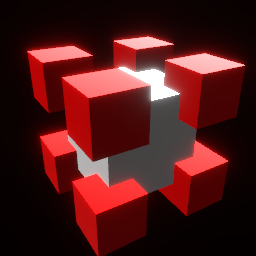
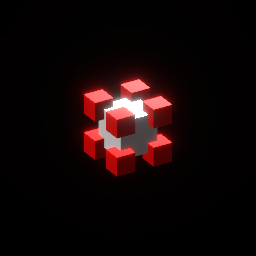
Fix orthographic projection rendering blank due to reversed depth ordering
When near > far was passed to Mat4::orthographic_rh, the positive z
coefficient caused back faces to win depth testing, producing zero
lighting output. Fix the original call site, add a runtime warning
for reversed depth, document the near < far convention, and add a
dedicated test for orthographic lit rendering.

diff --git a/crates/renderling/src/bvol.rs b/crates/renderling/src/bvol.rs
@@ -490,8 +490,8 @@ impl BoundingSphere {
         }
     }
 
-    /// Returns an [`Aabb`] with x and y coordinates in viewport pixels and z coordinate
-    /// in NDC depth.
+    /// Returns an [`Aabb`] with x and y coordinates in viewport pixels and z
+    /// coordinate in NDC depth.
     pub fn project_onto_viewport(&self, camera: &CameraDescriptor, viewport: Vec2) -> Aabb {
         fn ndc_to_pixel(viewport: Vec2, ndc: Vec3) -> Vec2 {
             let screen = Vec3::new((ndc.x + 1.0) * 0.5, 1.0 - (ndc.y + 1.0) * 0.5, ndc.z);
@@ -658,10 +658,10 @@ mod test {
             .with_msaa_sample_count(4)
             .with_lighting(true);
         let _camera = stage.new_camera().with_projection_and_view(
-            // TODO: BUG - using orthographic here renderes nothing
-            // Mat4::orthographic_rh(-10.0, 10.0, -10.0, 10.0, 10.0, -10.0),
-            crate::camera::perspective(256.0, 256.0),
-            Mat4::look_at_rh(Vec3::new(-3.0, 3.0, 5.0) * 0.5, Vec3::ZERO, Vec3::Y),
+            // Fixed: was `near=10, far=-10` which reversed depth ordering.
+            // Using `near=0.1, far=20` ensures correct depth testing.
+            Mat4::orthographic_rh(-3.0, 3.0, -3.0, 3.0, 0.1, 20.0),
+            Mat4::look_at_rh(Vec3::new(-3.0, 3.0, 5.0), Vec3::ZERO, Vec3::Y),
         );
         let _lights = crate::test::make_two_directional_light_setup(&stage);
 
@@ -711,6 +711,71 @@ mod test {
         stage.render(&frame.view());
         let img = frame.read_image().block().unwrap();
         img_diff::assert_img_eq("bvol/bounding_box/get_mesh.png", img);
+    }
+
+    /// Verifies that an orthographic projection with correct `near < far`
+    /// produces visible lit output.
+    ///
+    /// The original bug was that `orthographic_rh(-10, 10, -10, 10, 10, -10)`
+    /// (note: `near=10 > far=-10`) reversed the depth mapping, causing back
+    /// faces to win the depth test and produce zero lighting output.
+    ///
+    /// The fix is to use `near < far`, matching the convention of glTF, wgpu,
+    /// and every major rendering engine.
+    #[test]
+    fn orthographic_projection_lighting() {
+        let ctx = Context::headless(256, 256).block();
+        let view = Mat4::look_at_rh(Vec3::new(-3.0, 3.0, 5.0) * 0.5, Vec3::ZERO, Vec3::Y);
+
+        // Helper: render a lit unit cube and return the number of bright
+        // pixels (any RGB channel > 10).
+        let render = |projection: Mat4, label: &str| -> usize {
+            let stage = ctx
+                .new_stage()
+                .with_background_color(Vec4::ZERO)
+                .with_msaa_sample_count(4)
+                .with_lighting(true);
+            let _camera = stage
+                .new_camera()
+                .with_projection_and_view(projection, view);
+            let _lights = crate::test::make_two_directional_light_setup(&stage);
+            let white = stage.new_material().with_albedo_factor(Vec4::ONE);
+            let _prim = stage.new_primitive().with_material(&white).with_vertices(
+                stage.new_vertices(
+                    crate::math::unit_cube()
+                        .into_iter()
+                        .map(|(p, n)| Vertex::default().with_position(p).with_normal(n)),
+                ),
+            );
+            let frame = ctx.get_next_frame().unwrap();
+            stage.render(&frame.view());
+            let img = frame.read_image().block().unwrap();
+            img_diff::save(&format!("bvol/ortho_lighting_{label}.png"), img.clone());
+            let bright = img
+                .pixels()
+                .filter(|p| p.0[0] > 10 || p.0[1] > 10 || p.0[2] > 10)
+                .count();
+            bright
+        };
+
+        // Correct orthographic: near=-10, far=10 (near < far)
+        let ortho_bright = render(
+            Mat4::orthographic_rh(-10.0, 10.0, -10.0, 10.0, -10.0, 10.0),
+            "ortho_correct",
+        );
+
+        // Perspective for reference
+        let persp_bright = render(crate::camera::perspective(256.0, 256.0), "perspective");
+
+        assert!(
+            persp_bright > 100,
+            "Sanity: perspective should have bright pixels, got {persp_bright}"
+        );
+        assert!(
+            ortho_bright > 100,
+            "Orthographic projection (near=-10, far=10) should produce visible lit output, got \
+             only {ortho_bright} bright pixels (perspective had {persp_bright})"
+        );
     }
 
     #[test]

diff --git a/crates/renderling/src/camera/shader.rs b/crates/renderling/src/camera/shader.rs
@@ -41,7 +41,35 @@ impl CameraDescriptor {
         self.projection
     }
 
+    /// Set the projection and view matrices for this camera.
+    ///
+    /// ## Note on depth ordering
+    /// The rendering pipeline uses `CompareFunction::Less` for depth testing.
+    /// This requires that the projection matrix maps closer objects to
+    /// *smaller* z_ndc values. For orthographic projections created with
+    /// `Mat4::orthographic_rh`, this means `near` must be less than `far`.
+    /// If `near > far`, the depth mapping is reversed and back faces will
+    /// be drawn over front faces, producing incorrect (typically black)
+    /// lighting output.
     pub fn set_projection_and_view(&mut self, projection: Mat4, view: Mat4) {
+        // The z column of the projection matrix determines the depth mapping
+        // direction. A positive z coefficient (projection.z_axis.z > 0)
+        // indicates reversed depth (closer objects get larger z_ndc), which
+        // will cause incorrect results with the standard
+        // CompareFunction::Less depth test. This typically happens when
+        // `near > far` is passed to `Mat4::orthographic_rh`.
+        #[cfg(cpu)]
+        {
+            let z_coeff = projection.z_axis.z;
+            if z_coeff > 0.0 {
+                log::warn!(
+                    "Projection matrix has a positive z coefficient ({z_coeff}), indicating \
+                     reversed depth mapping. This will cause incorrect depth testing (back faces \
+                     drawn over front faces) with the standard CompareFunction::Less. For \
+                     orthographic projections, ensure near < far."
+                );
+            }
+        }
         self.projection = projection;
         self.view = view;
         self.position = view.inverse().transform_point3(Vec3::ZERO);
@@ -111,7 +139,8 @@ impl CameraDescriptor {
         (self.z_far() - self.z_near()).abs()
     }
 
-    /// Returns the normalized forward vector which points in the direction the camera is looking.
+    /// Returns the normalized forward vector which points in the direction the
+    /// camera is looking.
     pub fn forward(&self) -> Vec3 {
         (self.z_far_point - self.z_near_point).alt_norm_or_zero()
     }

diff --git a/crates/renderling/src/camera.rs b/crates/renderling/src/camera.rs
@@ -27,7 +27,10 @@ pub mod shader;
 /// let target = Vec3::ZERO;
 /// let up = Vec3::Y;
 /// let view = Mat4::look_at_rh(eye, target, up);
-/// assert_eq!(renderling::camera::default_perspective(width, height), (projection, view));
+/// assert_eq!(
+///     renderling::camera::default_perspective(width, height),
+///     (projection, view)
+/// );
 /// ```
 pub fn default_perspective(width: f32, height: f32) -> (Mat4, Mat4) {
     let projection = perspective(width, height);
@@ -46,6 +49,12 @@ pub fn perspective(width: f32, height: f32) -> Mat4 {
     Mat4::perspective_rh(fovy, aspect, znear, zfar)
 }
 
+/// Creates a right-handed orthographic projection matrix.
+///
+/// ## Note
+/// When constructing orthographic projections, `near` must be less than `far`
+/// to ensure correct depth testing. Reversed depth (`near > far`) will cause
+/// back faces to be drawn over front faces, producing incorrect lighting.
 pub fn ortho(width: f32, height: f32) -> Mat4 {
     let left = 0.0;
     let right = width;
@@ -62,6 +71,11 @@ pub fn look_at(eye: impl Into<Vec3>, target: impl Into<Vec3>, up: impl Into<Vec3
 
 /// Creates a typical 2d orthographic projection with +Y extending downward
 /// and the +Z axis coming out towards the viewer.
+///
+/// ## Note
+/// When constructing orthographic projections, `near` must be less than `far`
+/// to ensure correct depth testing. Reversed depth (`near > far`) will cause
+/// back faces to be drawn over front faces, producing incorrect lighting.
 pub fn default_ortho2d(width: f32, height: f32) -> (Mat4, Mat4) {
     let left = 0.0;
     let right = width;
@@ -100,10 +114,8 @@ mod tests {
             const THRESHOLD: f32 = 1e-3;
             assert!(
                 distance < THRESHOLD,
-                "Forward vector is incorrect\n\
-                forward: {forward}\n\
-                expected: {expected_forward}\n\
-                distance: {distance}, threshold: {THRESHOLD}"
+                "Forward vector is incorrect\nforward: {forward}\nexpected: \
+                 {expected_forward}\ndistance: {distance}, threshold: {THRESHOLD}"
             );
         }
     }

diff --git a/crates/renderling/src/camera/cpu.rs b/crates/renderling/src/camera/cpu.rs
@@ -9,8 +9,10 @@ use super::*;
 
 /// A camera used for transforming the stage during rendering.
 ///
-/// * Use [`Stage::new_camera`](crate::stage::Stage::new_camera) to create a new camera.
-/// * Use [`Stage::use_camera`](crate::stage::Stage::use_camera) to set a camera on the stage.
+/// * Use [`Stage::new_camera`](crate::stage::Stage::new_camera) to create a new
+///   camera.
+/// * Use [`Stage::use_camera`](crate::stage::Stage::use_camera) to set a camera
+///   on the stage.
 ///
 /// ## Note
 ///
@@ -63,7 +65,10 @@ impl Camera {
     /// let target = Vec3::ZERO;
     /// let up = Vec3::Y;
     /// let view = Mat4::look_at_rh(eye, target, up);
-    /// assert_eq!(renderling::camera::default_perspective(width, height), (projection, view));
+    /// assert_eq!(
+    ///     renderling::camera::default_perspective(width, height),
+    ///     (projection, view)
+    /// );
     /// ```
     pub fn set_default_perspective(&self, width: f32, height: f32) -> &Self {
         self.inner
@@ -90,7 +95,10 @@ impl Camera {
     /// let target = Vec3::ZERO;
     /// let up = Vec3::Y;
     /// let view = Mat4::look_at_rh(eye, target, up);
-    /// assert_eq!(renderling::camera::default_perspective(width, height), (projection, view));
+    /// assert_eq!(
+    ///     renderling::camera::default_perspective(width, height),
+    ///     (projection, view)
+    /// );
     /// ```
     pub fn with_default_perspective(self, width: f32, height: f32) -> Self {
         self.set_default_perspective(width, height);
